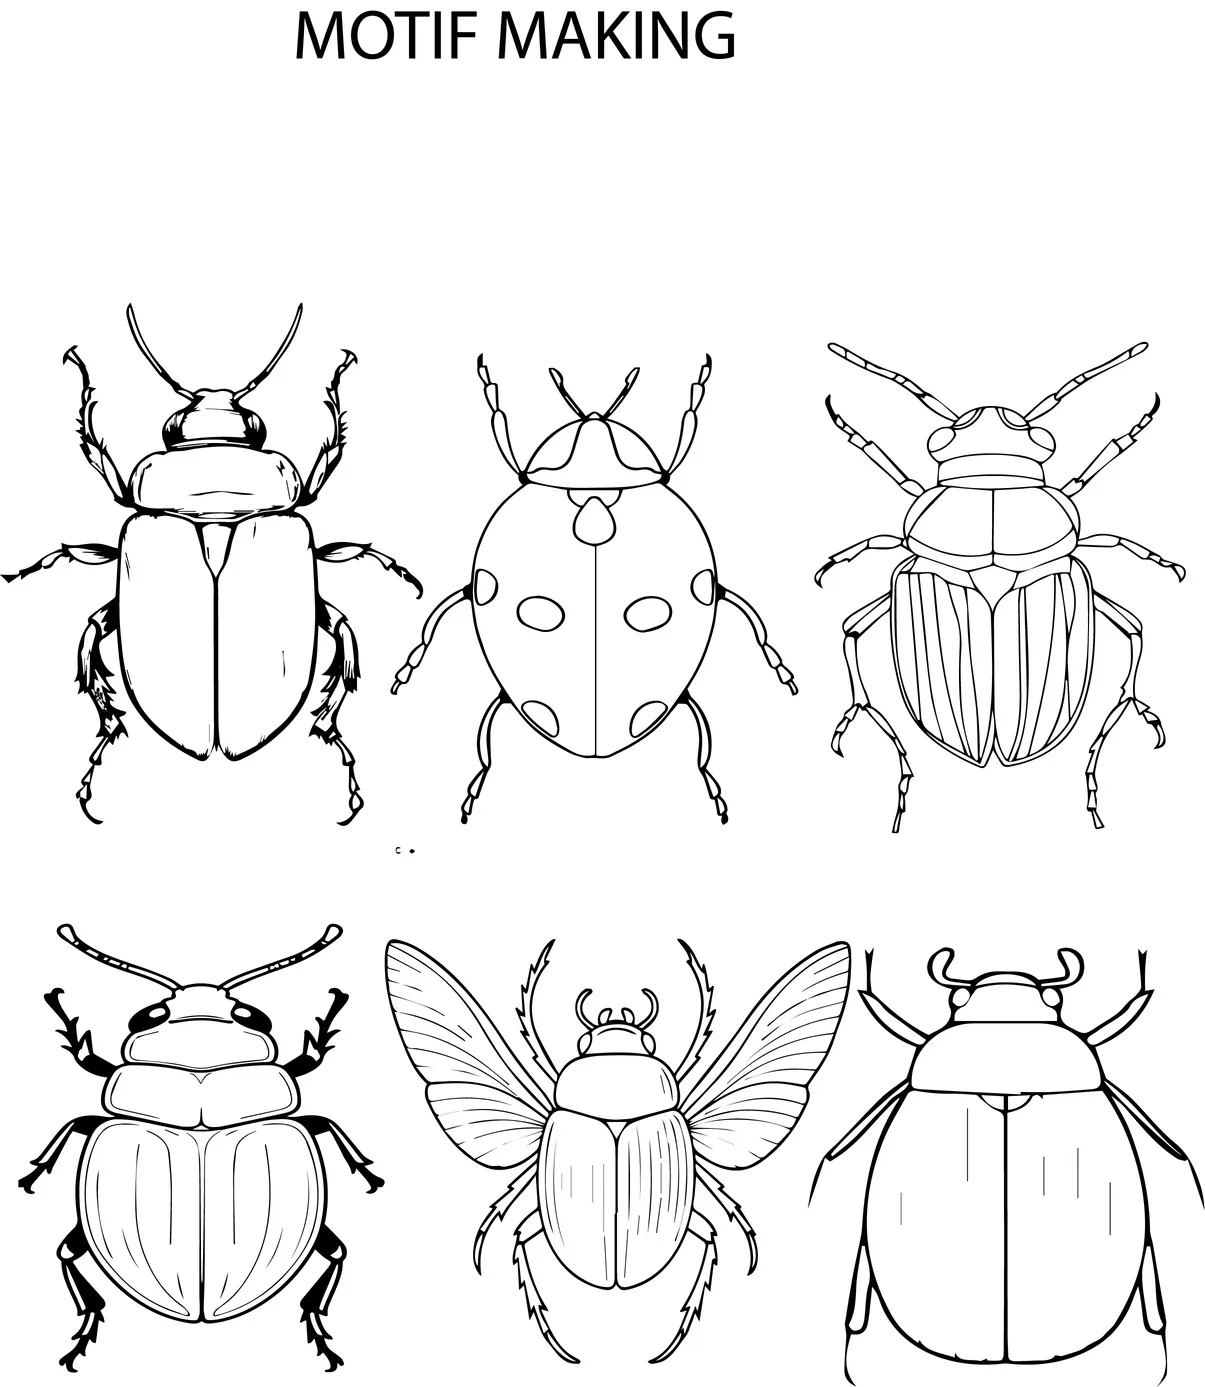
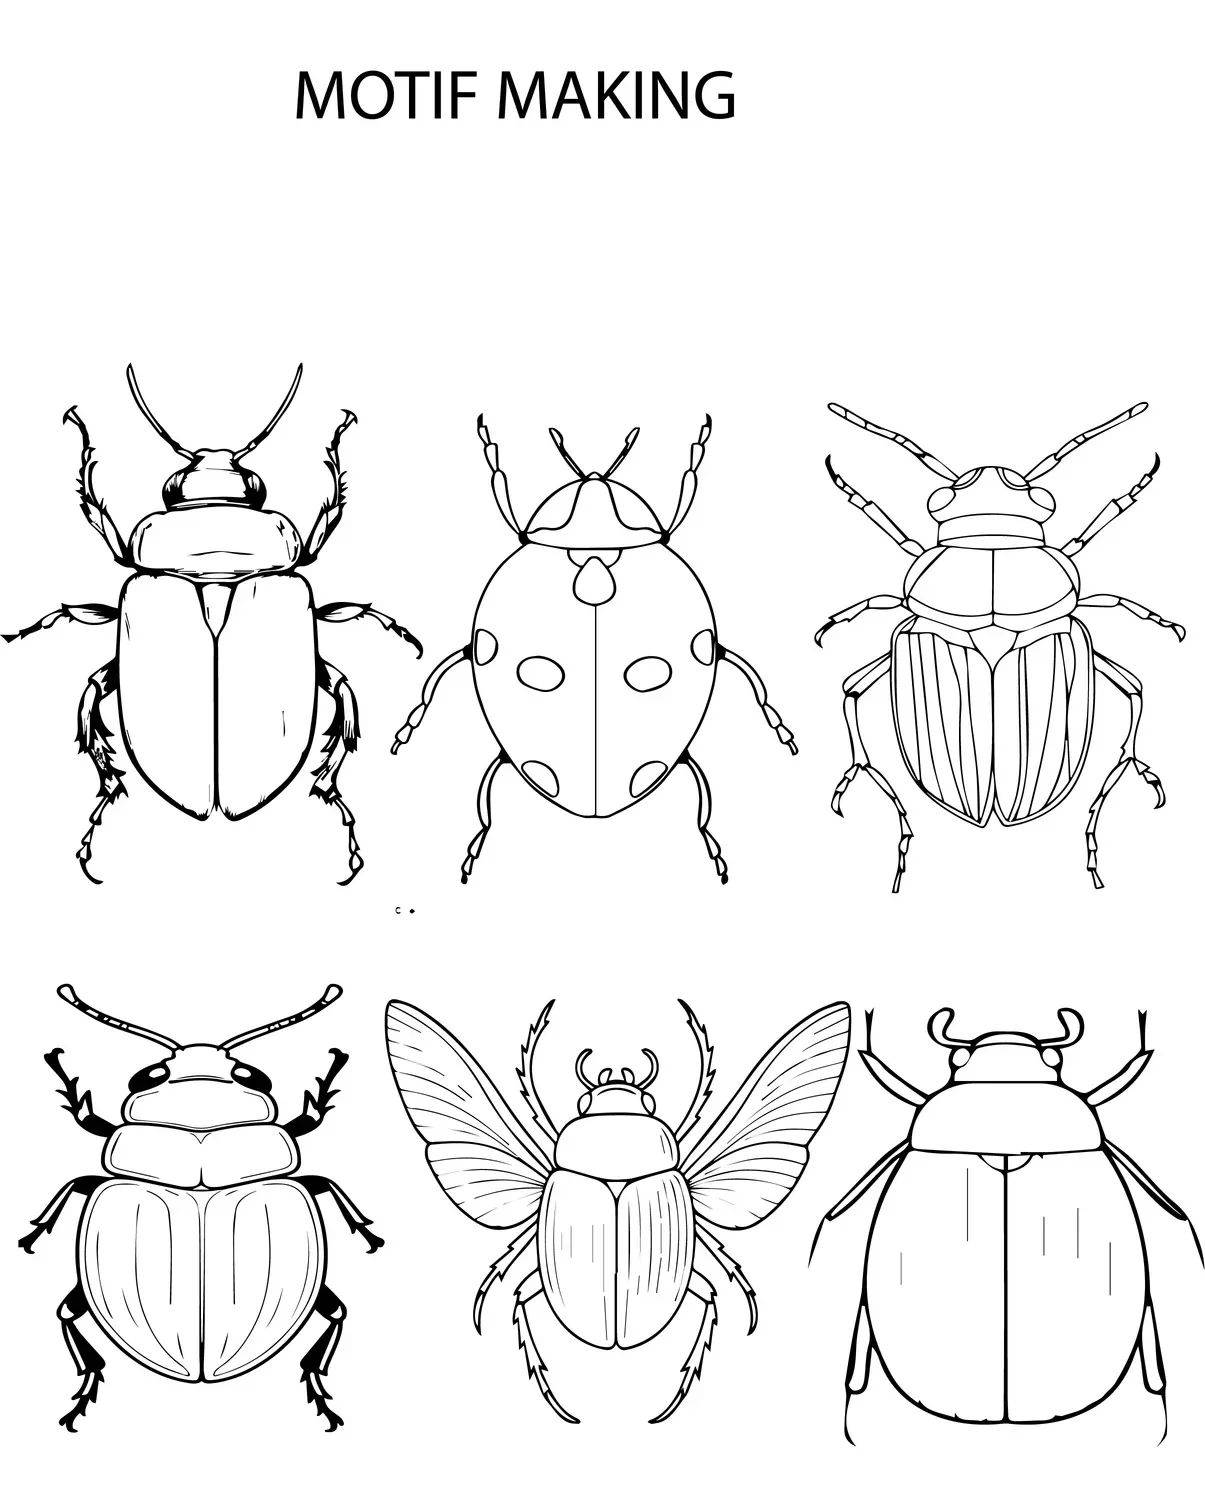
feat: Porcelaina concept and moodboard slides, sized designs grid
- Concept: replace the 5 intro images with the page-25 slide, text left
  and slide right, nudged lower via a new per-section `offset` option
- Moodboard: replace the 14 images with the page-26 slide (showcase);
  drop the now-unused moodboard grid section and its types
- The Designs: 3-across grid with 4:5 cards; images padded to 4:5 in
  their own white so they fill the cards without bars
- Odd last tile on the 2-column phone grid is centred at column width

diff --git a/src/components/sections/ProjectCaseStudy.tsx b/src/components/sections/ProjectCaseStudy.tsx
@@ -1,5 +1,4 @@
 import { ArrowUpRight } from 'lucide-react'
-import { motion } from 'framer-motion'
 import type { CaseSection, Project } from '@/types/portfolio'
 import { Reveal } from '@/components/ui/Reveal'
 import { ProjectImage } from '@/components/ui/ProjectImage'
@@ -59,19 +58,8 @@ function OverviewSection({ section }: { section: CaseSection }) {
   return (
     <div className="grid grid-cols-1 gap-10 md:grid-cols-[0.9fr_1.1fr] md:gap-16">
       <div className="md:sticky md:top-28 md:self-start"><SectionHeading section={section} /><Body paragraphs={section.body} /></div>
-      <div className="grid grid-cols-1 gap-5 sm:grid-cols-2">
+      <div className={cn('grid grid-cols-1 gap-5 sm:grid-cols-2', section.offset)}>
         {images.map((src, i) => (<Reveal key={src} variant={i % 2 === 0 ? 'right' : 'up'} delay={i * 0.08} className={cn(images.length === 1 && 'sm:col-span-2')}><ProjectImage src={src} alt={`${section.title ?? 'Project'}, image ${i + 1}`} aspect={section.aspect} /></Reveal>))}
-      </div>
-    </div>
-  )
-}
-function MoodboardSection({ section }: { section: CaseSection }) {
-  const images = section.images ?? []
-  return (
-    <div>
-      <SectionHeading section={section} /><Body paragraphs={section.body} />
-      <div className="mt-10 grid grid-cols-2 items-start gap-4 md:grid-cols-3 lg:grid-cols-4">
-        {images.map((src, i) => (<Reveal key={src} variant="scale" delay={(i % 4) * 0.05}><motion.div whileHover={{ scale: 1.03, rotate: i % 2 === 0 ? 0.8 : -0.8 }} transition={{ type: 'spring', stiffness: 200, damping: 18 }}><ProjectImage src={src} alt={`Moodboard reference ${i + 1}`} tilt={3} /></motion.div></Reveal>))}
       </div>
     </div>
   )
@@ -107,8 +95,9 @@ function GallerySection({ section }: { section: CaseSection }) {
           order so numbered sequences (REPEAT 1…N) read in order. CSS columns
           fill column-first and scramble the visual sequence. */}
       <div className={cn('mt-10 grid items-start gap-5', wide ? 'grid-cols-1 md:grid-cols-2' : 'grid-cols-2 md:grid-cols-3', section.width && 'mx-auto', section.width)}>
+        {/* odd count on the 2-col phone grid: centre the last tile instead of leaving it hanging left */}
         {images.map((src, i) => (
-          <Reveal key={src} variant={i % 2 === 0 ? 'up' : 'scale'} delay={(i % 3) * 0.06} className={cn(images.length === 1 && 'col-span-full')}>
+          <Reveal key={src} variant={i % 2 === 0 ? 'up' : 'scale'} delay={(i % 3) * 0.06} className={cn(images.length === 1 && 'col-span-full', !wide && images.length > 1 && images.length % 2 === 1 && i === images.length - 1 && 'col-span-2 mx-auto w-[calc(50%-0.625rem)] md:col-span-1 md:w-auto')}>
             <ProjectImage src={src} alt={`${section.title ?? 'Gallery'}, image ${i + 1}`} aspect={aspect} tilt={4} />
           </Reveal>
         ))}
@@ -120,7 +109,6 @@ function GallerySection({ section }: { section: CaseSection }) {
 function renderSection(section: CaseSection, color: string) {
   switch (section.kind) {
     case 'overview': return <OverviewSection section={section} />
-    case 'moodboard': return <MoodboardSection section={section} />
     case 'spec': return <SpecSection section={section} color={color} />
     case 'gallery': return <GallerySection section={section} />
     default: return null

diff --git a/src/types/portfolio.ts b/src/types/portfolio.ts
@@ -8,10 +8,10 @@ export interface EducationItem { id: string; qualification: string; institution:
 export interface PaletteSwatch { name: string; hex: string }
 export interface ProjectMeta { label: string; value: string }
 export interface SpecGroup { label: string; items: string[] }
-export type CaseSectionLayout = 'grid' | 'wide' | 'collage' | 'showcase'
+export type CaseSectionLayout = 'grid' | 'wide' | 'showcase'
 export interface CaseSection {
   id: string
-  kind: 'overview' | 'moodboard' | 'spec' | 'gallery'
+  kind: 'overview' | 'spec' | 'gallery'
   eyebrow?: string; title?: string; body?: string[]; layout?: CaseSectionLayout
   /** Tailwind aspect-ratio class (e.g. 'aspect-square') to force uniform image
    *  tiles when a section's source images have mismatched native ratios. */
@@ -22,6 +22,8 @@ export interface CaseSection {
   /** Optional per-image captions, shown beneath each image in the 'showcase'
    *  overview layout so content-rich boards read as standalone, labelled pieces. */
   captions?: string[]
+  /** Tailwind classes nudging the image column of a two-column overview (e.g. 'md:mt-32' to sit lower). */
+  offset?: string
   /** Render images frameless (no card) so cut-out / transparent images float on the page. */
   bare?: boolean
   images?: string[]; specs?: SpecGroup[]
